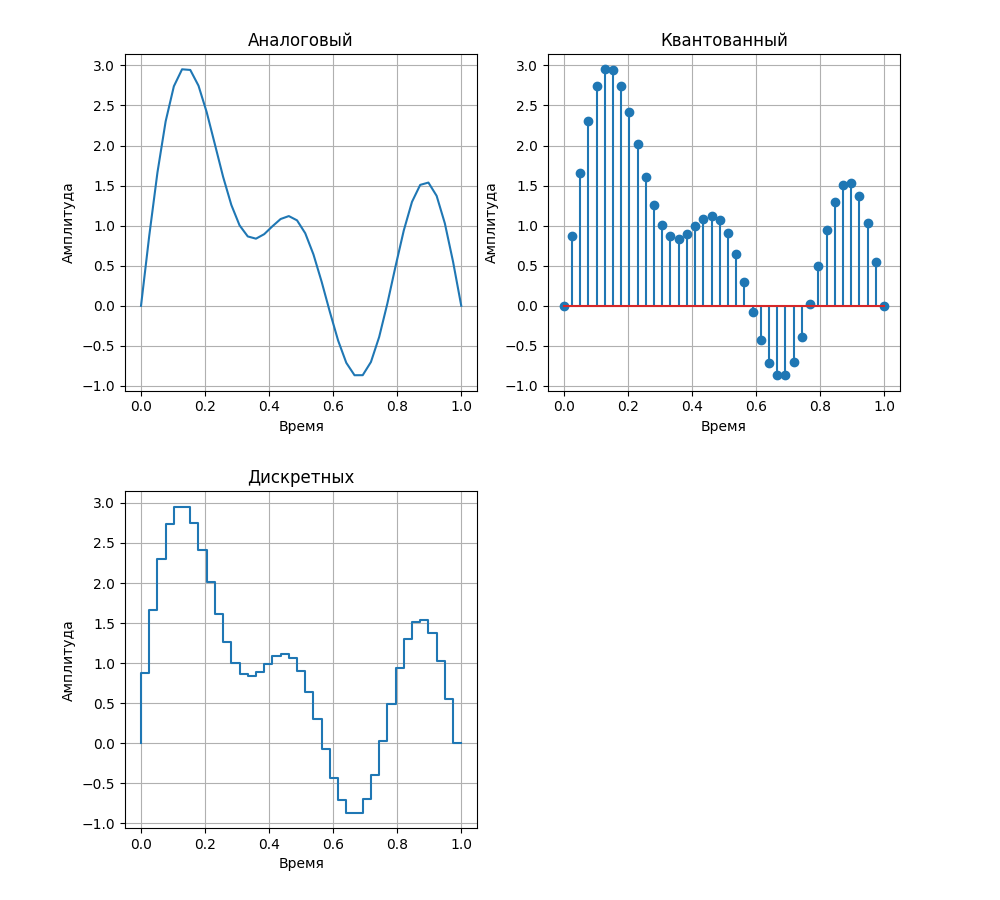
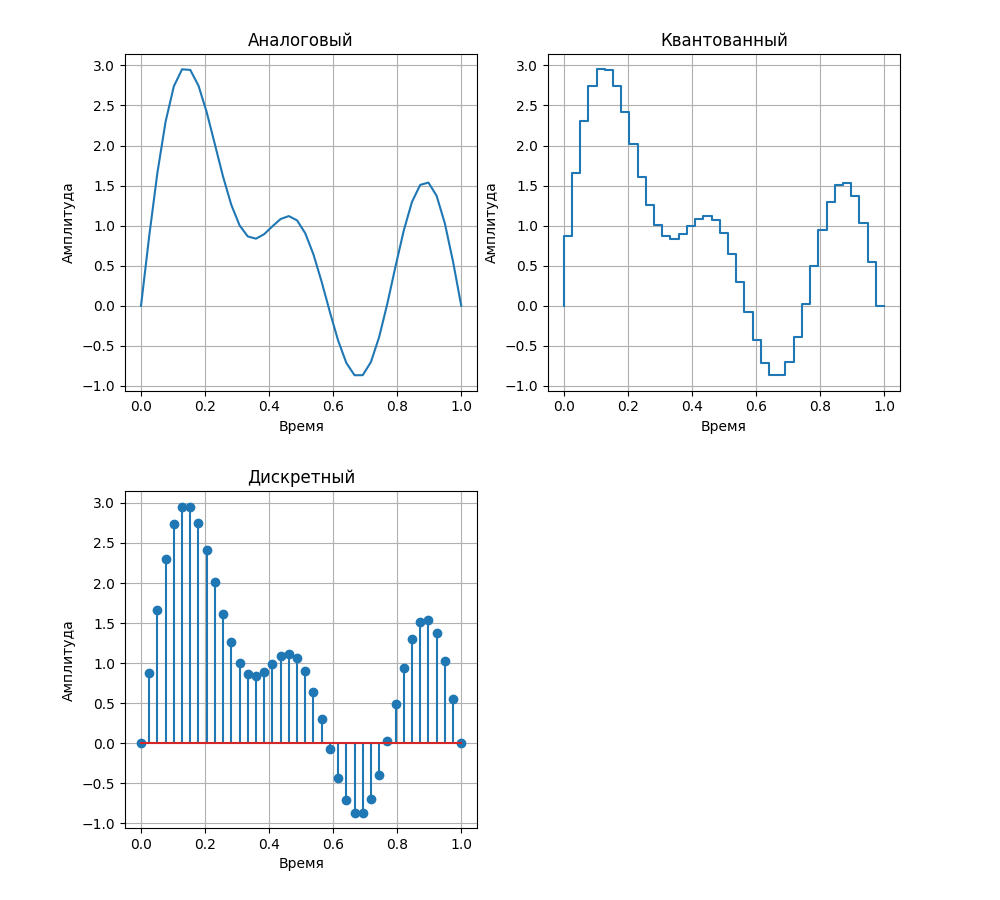
Исправление опечатки + добавление скриншота доп.задания

Changed region(s): [[0.124, 0.56, 0.465, 0.9333], [0.558, 0.0622, 0.806, 0.4356], [0.806, 0.1867, 0.899, 0.3422]]

diff --git a/Lecture2 (20.09)/files/3.py b/Lecture2 (20.09)/files/3.py
@@ -23,14 +23,14 @@ plt.xlabel("Время")
 plt.ylabel("Амплитуда")
 plt.title("Квантованный")
 plt.grid()
-plt.stem(t, x)
+plt.step(t, x)
 
 plt.subplot(2, 2, 3)
 plt.xlabel("Время")
 plt.ylabel("Амплитуда")
-plt.title("Дискретных")
+plt.title("Дискретный")
 plt.grid()
-plt.step(t, x)
+plt.stem(t, x)
 
 plt.subplot(2, 2, 4)
 plt.xlim(-0.2,10)

diff --git a/Lecture2 (20.09)/files/2.py b/Lecture2 (20.09)/files/2.py
@@ -21,13 +21,13 @@ plt.xlabel("Время")
 plt.ylabel("Амплитуда")
 plt.title("Квантованный")
 plt.grid()
-plt.stem(t, x)
+plt.step(t, x)
 
 plt.subplot(2, 2, 3)
 plt.xlabel("Время")
 plt.ylabel("Амплитуда")
-plt.title("Дискретных")
+plt.title("Дискретный")
 plt.grid()
-plt.step(t, x)
+plt.stem(t, x)
 
 plt.show()

diff --git a/Lecture2 (20.09)/README.md b/Lecture2 (20.09)/README.md
@@ -36,4 +36,5 @@
 
 ### №3
 Третье задание было дополнительным, заключалось в том чтобы попробовать добавить 4ый график fft  
-(картинки не будет)
+
+<img src="./photo/4_graphics.png" width="600" />
